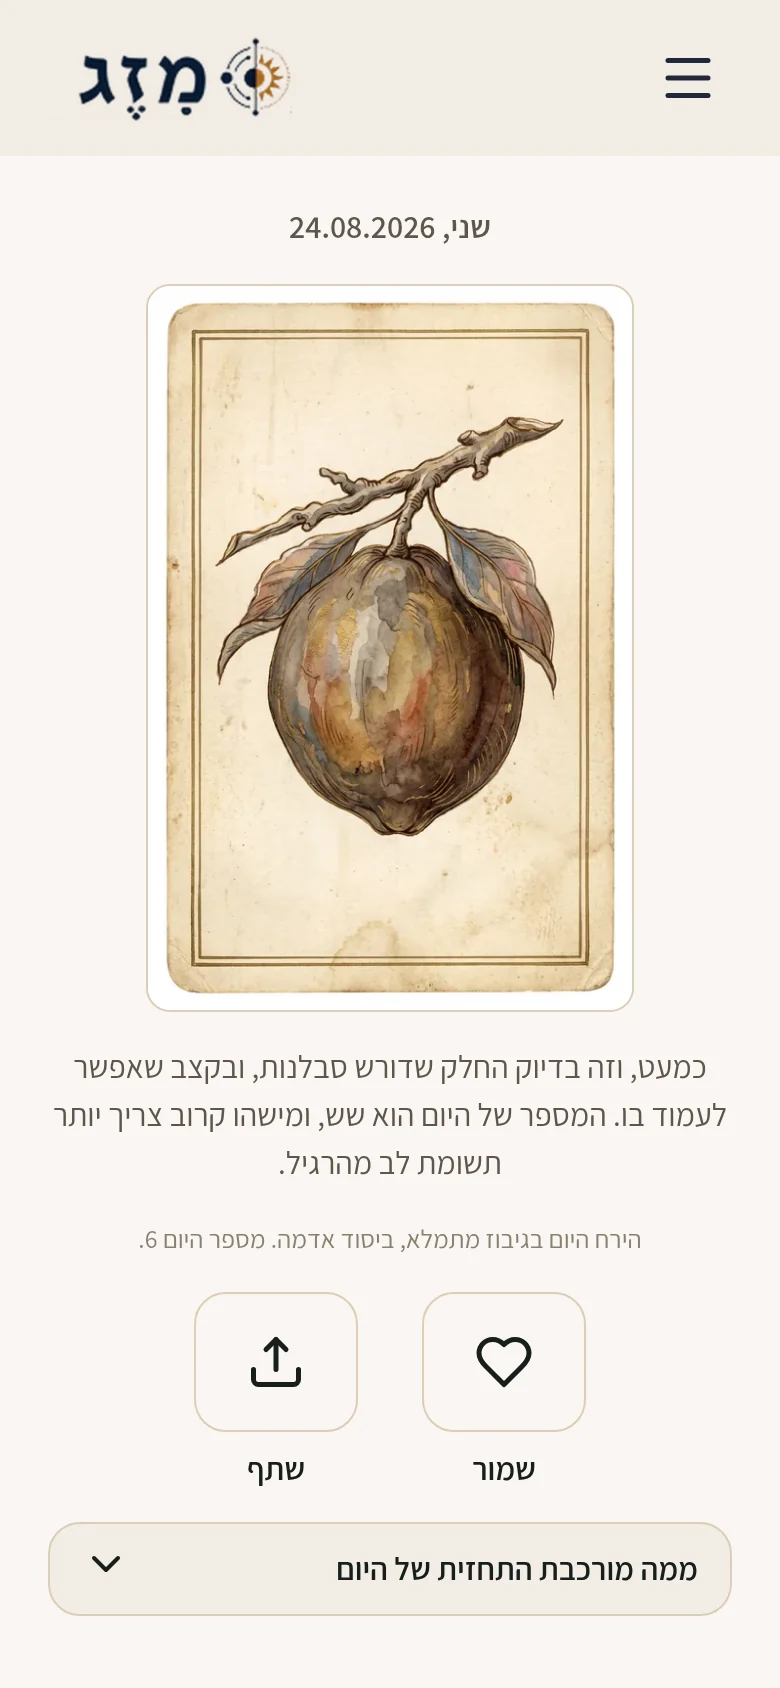
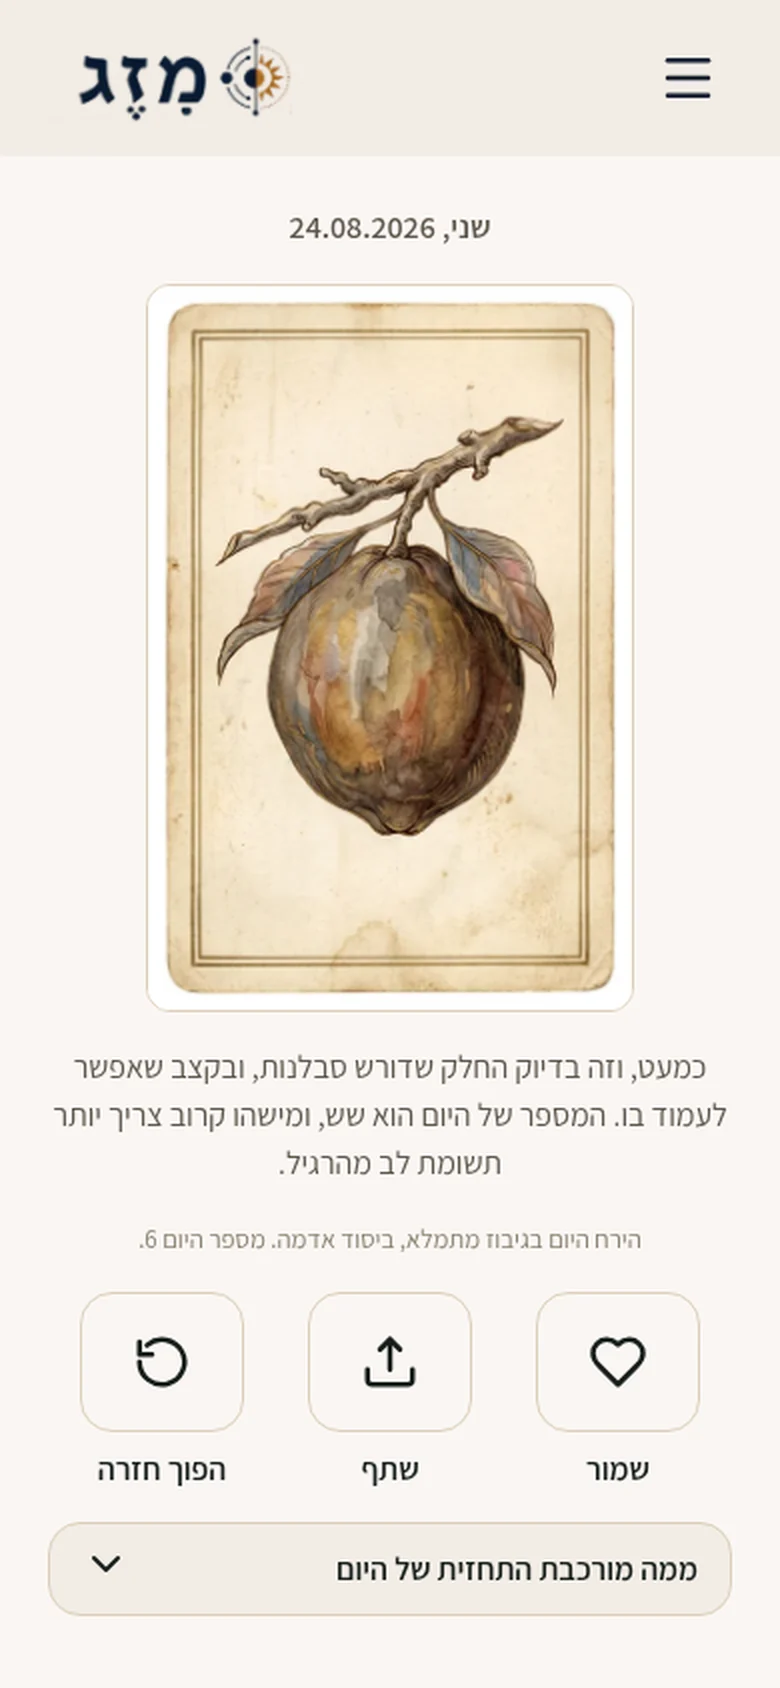
mazag: let the card turn back
A third action next to save and share, shown only once the card is
face-up. Turning back also clears the stored "revealed today" date, so a
reload keeps the card face-down. Without that the button would move the
card and the next load would undo it.

showFace became setFace(face, instant), symmetric in both directions:
everything one state switches on, the other switches off. The old
one-way version left the front image's alt text and the back button's
inert state permanently set once revealed.

Two things this surfaced:

The explanation line under the card carried the moon phase and the
element, which is half the forecast, and it was visible while the card
was still face-down. It now follows the text and hides with it.

data-instant was set on an instant reveal and never cleared, so the
first turn-back after a same-day reload would have jumped rather than
animated. Removing the attribute and changing the transform in one frame
is computed together and does not animate either, so a reflow separates
them.

Verified: both directions animate through the mid-turn angle, the
storage key clears, focus moves off the button that disappears, and
under reduced motion the card turns both ways without the hidden face
swallowing the click.

Claude-Session: https://claude.ai/code/session_017Nmq4gYCCupfL7qL4wwohc

diff --git a/mazag/script.js b/mazag/script.js
@@ -369,6 +369,7 @@
     var errorBox = document.getElementById("forecast-error");
     var guestErr = document.getElementById("guest-error");
     var why = document.getElementById("card-why");
+    var flipBack = document.getElementById("flip-back-btn");
     var stamp = document.querySelector(".forecast__date");
 
     /* ---------- ההיפוך ----------
@@ -390,22 +391,50 @@
       try { window.localStorage.setItem(FLIP_KEY, today()); } catch (e) { /* חלון פרטי */ }
     }
 
-    /* מעביר את הקלף למצב גלוי. instant=true מדלג על הסיבוב, וזה המצב
-       של פתיחה חוזרת ושל צפייה מקישור */
-    function showFace(instant) {
+    /* היפוך חזרה מוחק את הסימון ולא רק מסובב. אחרת רענון היה מחזיר את
+       הקלף לפנים, והכפתור היה קישוט ולא בחירה */
+    function clearFlipped() {
+      try { window.localStorage.removeItem(FLIP_KEY); } catch (e) { /* חלון פרטי */ }
+    }
+
+    /* מעביר את הקלף בין שני המצבים. instant=true מדלג על הסיבוב, וזה
+       המצב של פתיחה חוזרת ושל צפייה מקישור.
+       סימטרי בכוונה: כל מה שמצב אחד מדליק, השני מכבה */
+    function setFace(face, instant) {
       if (!flip) return;
+      var front = face === "front";
       /* המעבר יושב על .flip__inner ולא על העטיפה, ולכן כיבוי דרך
          style של העטיפה לא היה עושה כלום. סימון על העטיפה וכלל
          CSS שמכבה את המעבר בפנים הוא מה שבאמת עובד */
-      if (instant) flip.dataset.instant = "true";
-      flip.dataset.face = "front";
-      hero.alt = heroAlt;
-      hero.removeAttribute("aria-hidden");
-      if (back) {
-        back.setAttribute("aria-hidden", "true");
-        back.setAttribute("inert", "");     /* מוסתר ויזואלית, וגם יוצא ממסלול ה-Tab */
+      if (instant) {
+        flip.dataset.instant = "true";
+      } else if (flip.hasAttribute("data-instant")) {
+        flip.removeAttribute("data-instant");
+        void flip.offsetWidth;   /* בלי reflow הדפדפן מחשב את שני השינויים יחד ולא מנפיש */
       }
-      text.hidden = false;
+      flip.dataset.face = face;
+
+      /* כל עוד הקלף הפוך, alt שמתאר את הציור מסגיר לקורא מסך
+         בדיוק את מה שהמסך מסתיר מהעין */
+      hero.alt = front ? heroAlt : "";
+      if (front) hero.removeAttribute("aria-hidden");
+      else hero.setAttribute("aria-hidden", "true");
+
+      if (back) {
+        if (front) {
+          back.setAttribute("aria-hidden", "true");
+          back.setAttribute("inert", "");   /* מוסתר ויזואלית, וגם יוצא ממסלול ה-Tab */
+        } else {
+          back.removeAttribute("aria-hidden");
+          back.removeAttribute("inert");
+        }
+      }
+
+      text.hidden = !front;
+      /* שורת ההסבר נושאת את פאזת הירח ואת היסוד, כלומר חצי מהתחזית.
+         היא הייתה גלויה גם מול קלף הפוך, וזה הדליף את מה שהקלף מסתיר */
+      if (why) why.hidden = !front;
+      if (flipBack) flipBack.hidden = !front;
     }
 
     function reveal() {
@@ -414,7 +443,7 @@
       if (skelText) skelText.hidden = true;
       if (flip) {
         flip.hidden = false;
-        if (alreadyFlipped()) showFace(true);
+        setFace(alreadyFlipped() ? "front" : "back", true);
       } else {
         hero.hidden = false;                /* מסך בלי היפוך, למשל צפייה מקישור */
         hero.alt = heroAlt;
@@ -472,8 +501,21 @@
       back.addEventListener("click", function () {
         if (flip.dataset.face === "front") return;
         play("reveal");
-        showFace(false);
+        setFace("front", false);
         markFlipped();
+      });
+    }
+
+    /* ההיפוך ההפוך. אותה תנועה בכיוון השני, ולכן אותו עיתוי ואותה עקומה */
+    if (flipBack) {
+      flipBack.addEventListener("click", function () {
+        if (!flip || flip.dataset.face === "back") return;
+        play("reveal");
+        setFace("back", false);
+        clearFlipped();
+        /* הפוקוס יושב על כפתור שנעלם ברגע הזה, ובלי העברה מפורשת
+           הוא נופל ל-body והמקלדת מתחילה מחדש מראש הדף */
+        if (back) back.focus();
       });
     }
 

diff --git a/mazag/daily-forecast.html b/mazag/daily-forecast.html
@@ -75,6 +75,12 @@
           <span class="action-button__surface"><svg viewBox="0 0 24 24" fill="none" stroke="currentColor" stroke-width="2" stroke-linecap="round" stroke-linejoin="round" aria-hidden="true"><path d="M12 15V3"/><path d="m8 7 4-4 4 4"/><path d="M21 15v4a2 2 0 0 1-2 2H5a2 2 0 0 1-2-2v-4"/></svg></span>
           <span class="action-button__label">שתף</span>
         </button>
+        <!-- מוצג רק אחרי ההיפוך. כפתור שמציע להפוך חזרה קלף שעדיין הפוך
+             הוא הבטחה לפעולה שאין לה משמעות -->
+        <button type="button" class="action-button" id="flip-back-btn" hidden>
+          <span class="action-button__surface"><svg viewBox="0 0 24 24" fill="none" stroke="currentColor" stroke-width="2" stroke-linecap="round" stroke-linejoin="round" aria-hidden="true"><path d="M3 12a9 9 0 1 0 3-6.7"/><path d="M3 4v5h5"/></svg></span>
+          <span class="action-button__label">הפוך חזרה</span>
+        </button>
       </div>
 
       <!-- ההרחבה: מי תרם מה לתחזית של היום. סגורה כברירת מחדל,

diff --git a/mazag/sw.js b/mazag/sw.js
@@ -8,7 +8,7 @@
    הגרסה בשם המטמון היא מה שמפעיל ניקוי. כל שינוי ברשימה מחייב להעלות אותה,
    אחרת דפדפן שכבר ביקר יישאר עם הישן. */
 
-var VERSION = "mazag-v5";
+var VERSION = "mazag-v6";
 var DOC_CACHE = VERSION + "-doc";
 var ASSET_CACHE = VERSION + "-asset";
 
